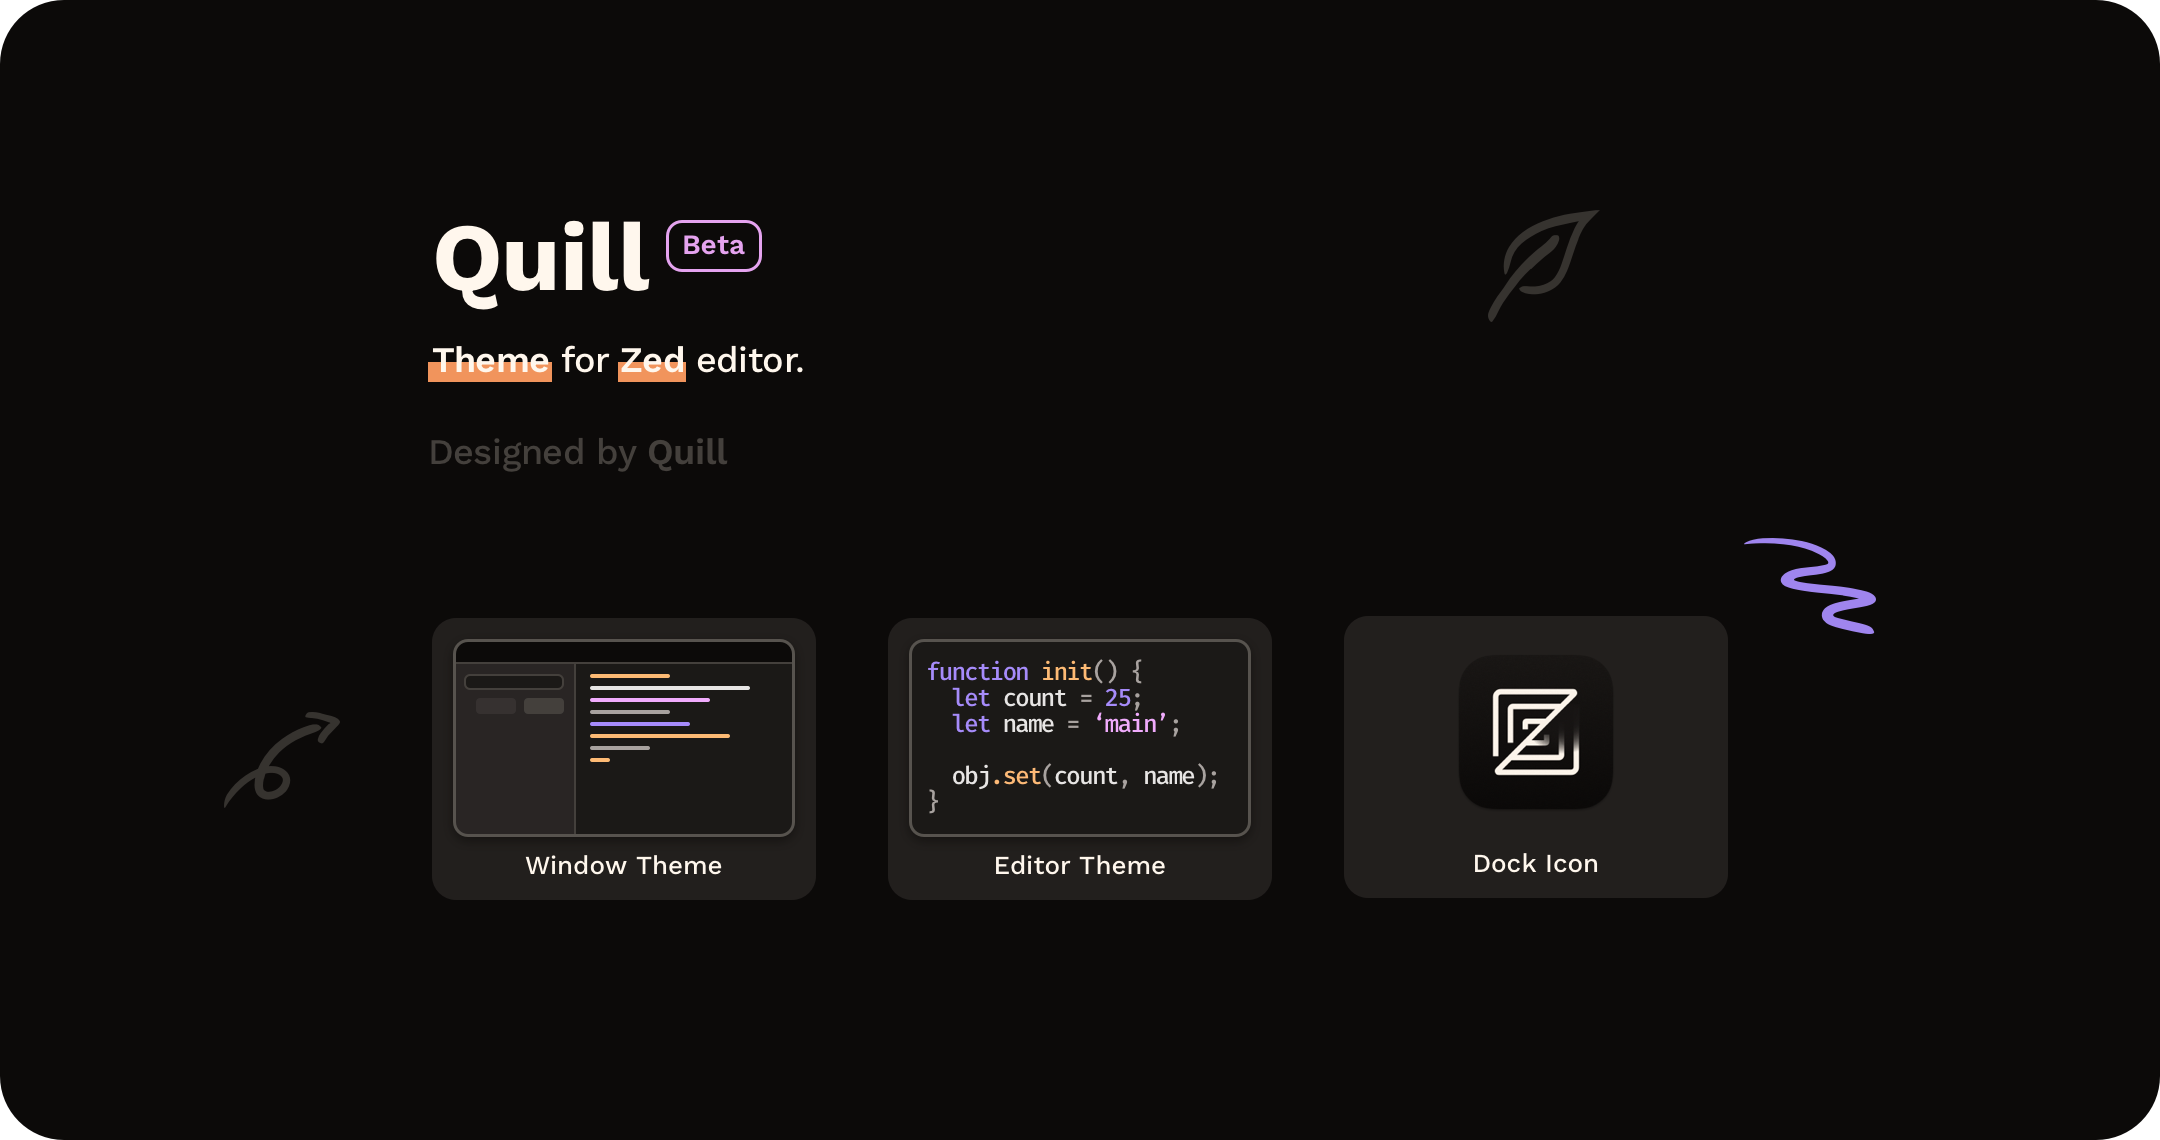
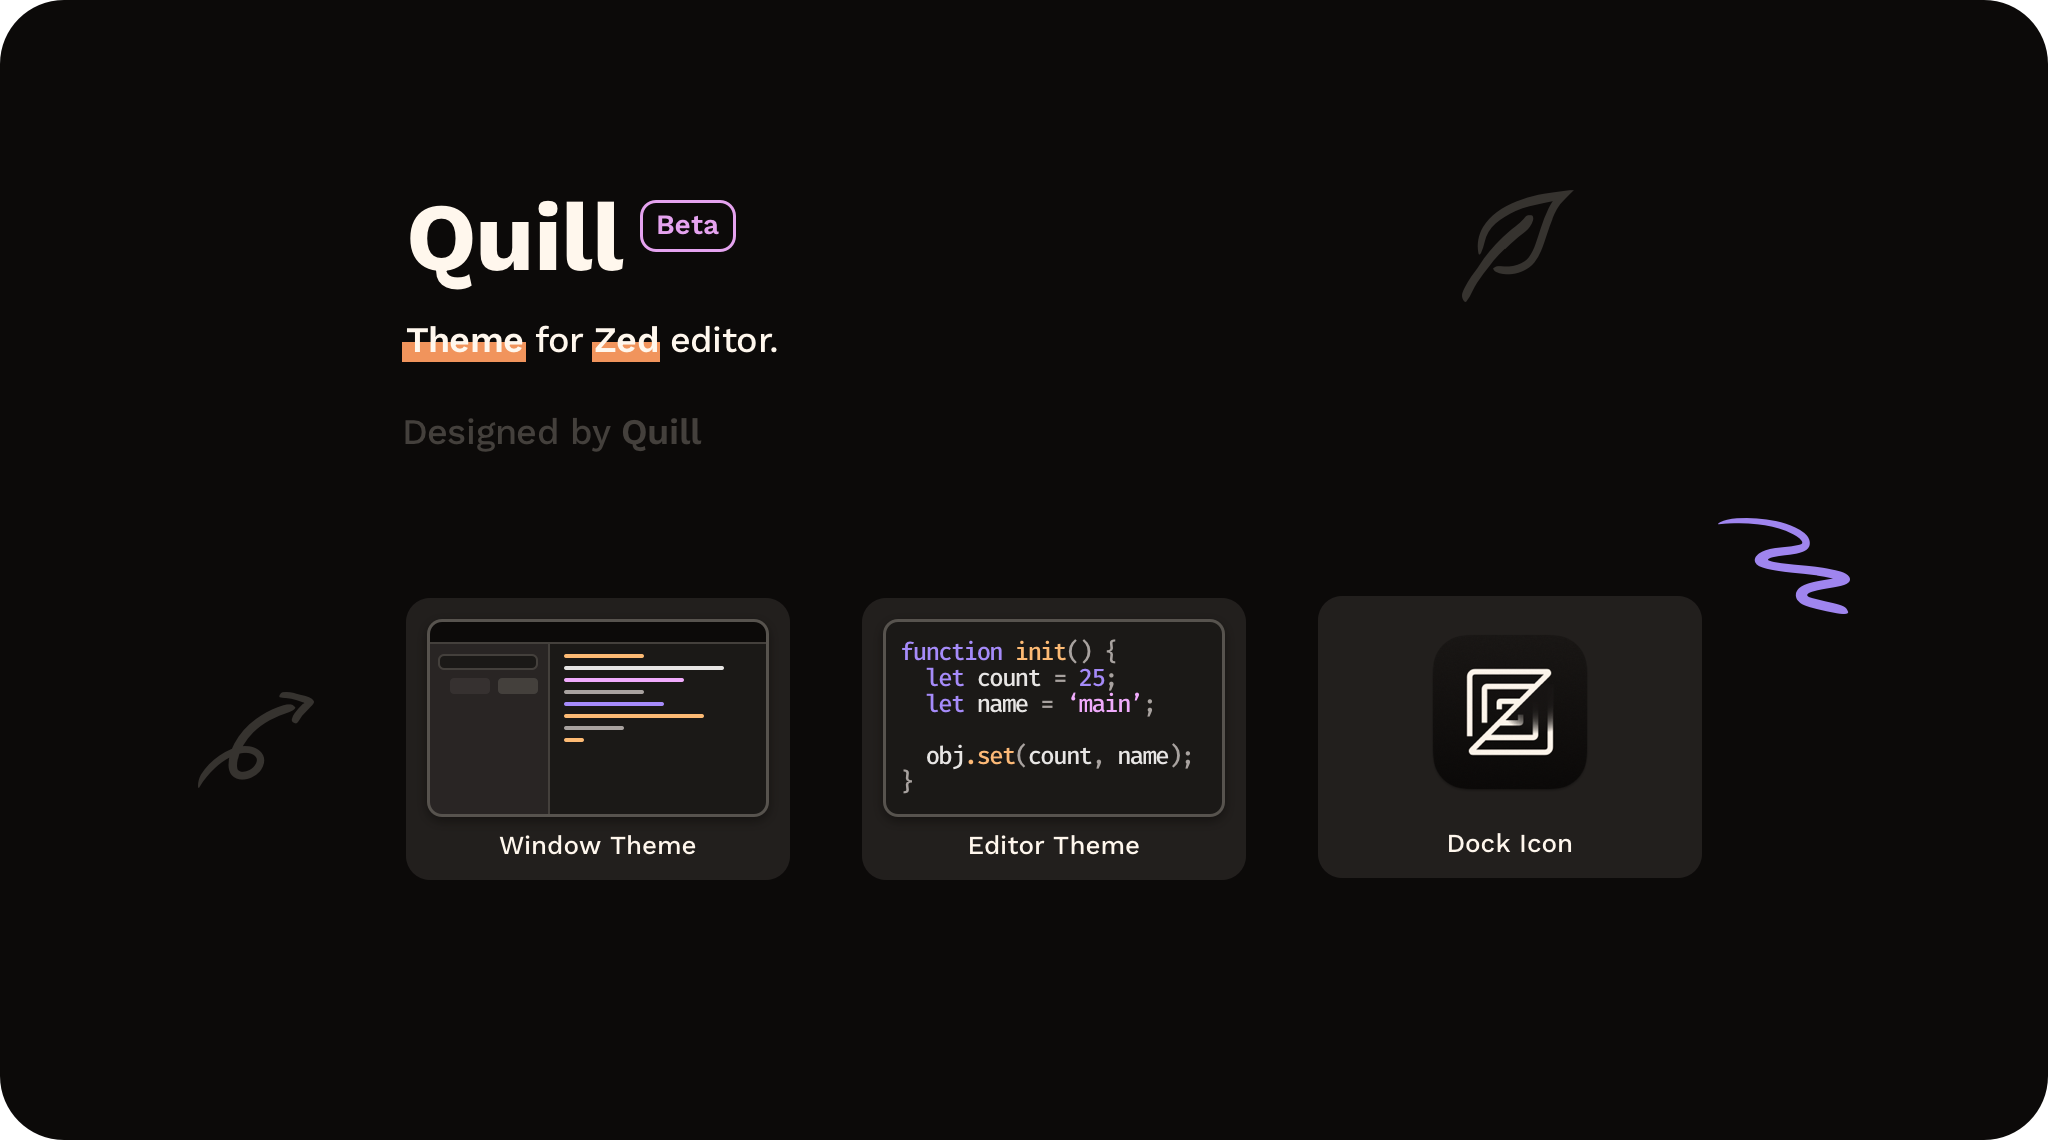
improve screen dimensions

diff --git a/README.md b/README.md
@@ -1,4 +1,4 @@
-<img width="1080" alt="Quill" src="./screenshot.png">
+<img width="1024" alt="Quill" src="./screenshot.png">
 
 # 🪶 Quill
 
